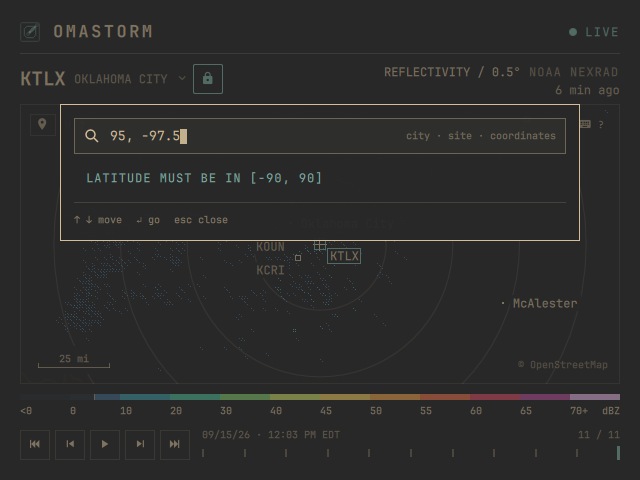
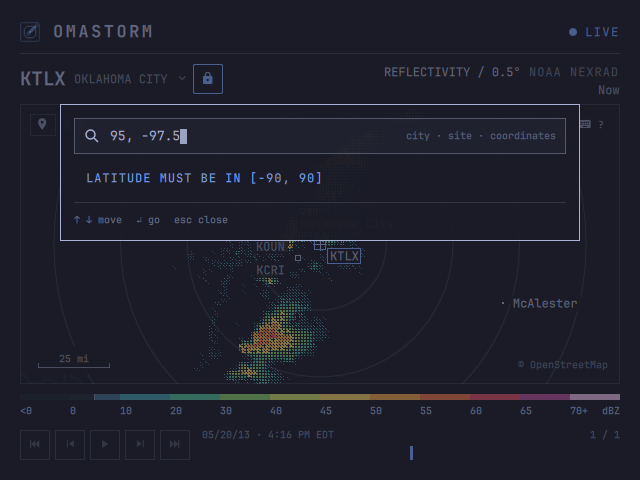
docs(readme): shoot the Moore storm in Tokyo Night
README stills use the archived KTLX volume with live chrome so the lead
shows a real hook, not today's quiet feed, plus a window-and-popover hero
and a light theme pair.

diff --git a/ui/RadarWindow.qml b/ui/RadarWindow.qml
@@ -348,6 +348,7 @@ Item {
     IpcHandler {
         target: "location"
         function open(query: string): void { locationPicker.show(query); }
+        function prompt(): void { locationPicker.show("", true); }
         function accept(): void { locationPicker.accept(); }
         function close(): void { locationPicker.close(); }
         function move(delta: int): void { locationPicker.move(delta); }

diff --git a/README.md b/README.md
@@ -2,14 +2,14 @@
 
 Live NEXRAD radar in your Omarchy bar. Beta.
 
+<p align="center">
+  <img src="docs/media/readme/hero.png" alt="Omastorm window and bar popover">
+</p>
+
 A radar that lives next to the clock. The popover is the station nearest you
 and the actual scan time. Click the map (or press Enter) for the full window:
 every dish in the network, the sweep at native resolution, a two-hour loop
 you can play and scrub, drawn in your Omarchy theme.
-
-![The Omastorm window](docs/media/readme/window.png)
-
-![The Omastorm bar popover](docs/media/readme/popover.png)
 
 This page is the user guide: install, first run, and everyday use. How the
 code is built lives in [CONTRIBUTING.md](CONTRIBUTING.md).
@@ -155,8 +155,11 @@ Three treatments sample the same gate and palette. They only change how each
 
 ![Pixels, Glyphs, and Stipple](docs/media/readme/treatments.png)
 
-Colors, type, and spacing come from the active Omarchy theme and follow it
-when the theme changes. Radar color comes only from the sweep.
+Chrome follows the Omarchy theme. Radar color comes only from the sweep.
+
+<p align="center">
+  <img src="docs/media/readme/themes.png" alt="Tokyo Night and Flexoki Light">
+</p>
 
 `?` lists every key. They are all rebindable.
 

diff --git a/docs/media/README.md b/docs/media/README.md
@@ -9,13 +9,21 @@ bash scripts/capture-readme.sh
 ```
 
 Isolated daemons, no login plugin, no desktop config. Needs a working desktop
-OpenGL session. Stills are 640×480 (above the window's compact breakpoint).
-Writes:
+OpenGL session. Windows are 640×480.
+
+These are **presentation stills**, not a live take: they paint the archived
+Moore/KTLX volume (`data/raw/KTLX20130520_201643_V06.gz`) with live chrome
+(LIVE, a short age, no ARCHIVED badge) so the README shows a real storm
+instead of whatever the feed is doing today. Tokyo Night is the dark theme;
+Flexoki Light is the light one.
 
 | File | What it is |
 | --- | --- |
-| `readme/window.png` | Live window, Glyphs |
-| `readme/popover.png` | Bar popover, Glyphs |
+| `readme/hero.png` | Window + popover, Tokyo Night |
+| `readme/window.png` | Window, Tokyo Night |
+| `readme/window-light.png` | Window, Flexoki Light |
+| `readme/themes.png` | Dark and light side by side |
+| `readme/popover.png` | Bar popover, Tokyo Night |
 | `readme/onboard.png` | First-run location prompt |
 | `readme/search-city.png` | Search, city query |
 | `readme/search-site.png` | Search, site id |
